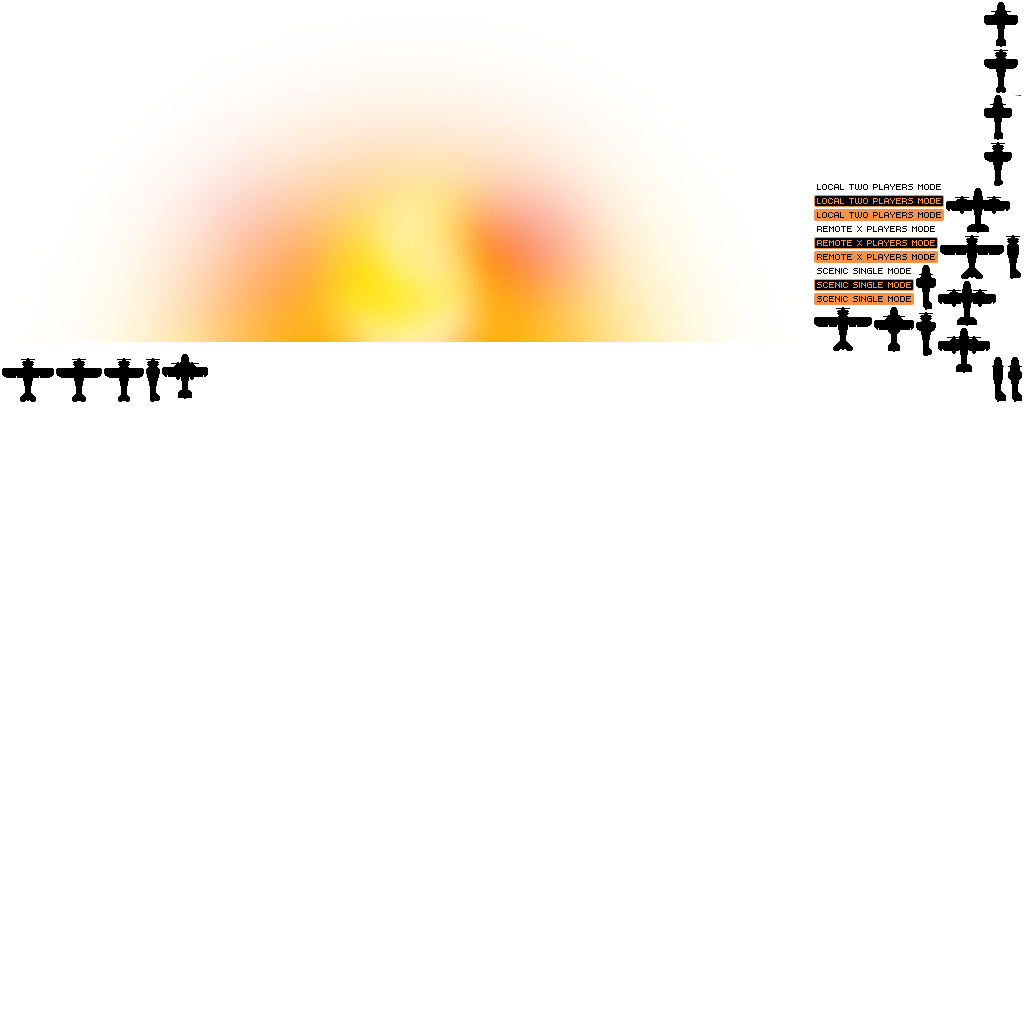
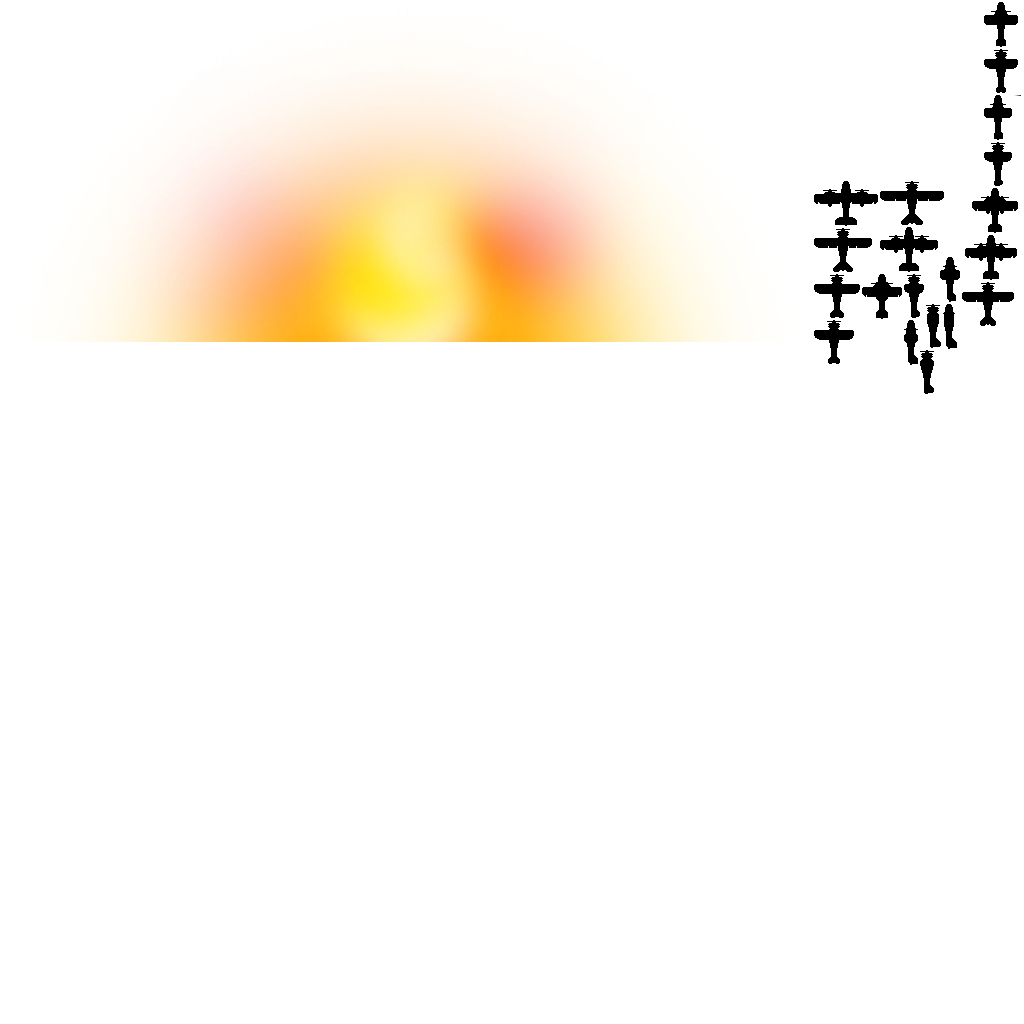
Removing obsolete GUI elements

Changed region(s): [[0.7812, 0.1562, 1.0, 0.4062], [0.0, 0.3438, 0.2188, 0.4062]]

diff --git a/src/ts/objects/GUI.class.ts b/src/ts/objects/GUI.class.ts
@@ -11,58 +11,12 @@
 class GUI extends Phaser.Group {
 
 
-    private scenicSingleModeButton: Phaser.Button;
-    private scenicSingleModeLabel: Phaser.Image;
-    private local2PlayersModeButton: Phaser.Button;
-    private local2PlayersModeLabel: Phaser.Image;
-    private remoteXPlayersModeButton: Phaser.Button;
-    private remoteXPlayersModeLabel: Phaser.Image;
     private planeOffscreenMarkerList: PlaneOffscreenMarker[] = [];
     private planeLabelList: PlaneLabel[] = [];
 
 
     constructor(game: Phaser.Game) {
         super(game, game.world, "gui");
-
-        // noinspection JSDeclarationsAtScopeStart
-        var x: number = 0;
-
-        x += this.createScenicSingleModeButton(x) + 5;
-        x += this.createLocal2PlayersModeButton(x) + 5;
-        this.createRemoteXPlayersModeButton(x);
-
-        this.refresh();
-    }
-
-
-    /**
-     * Refresh GUI.
-     */
-    public refresh() {
-        this.scenicSingleModeButton.buttonMode = true;
-        this.local2PlayersModeButton.buttonMode = true;
-        this.remoteXPlayersModeButton.buttonMode = true;
-
-        this.scenicSingleModeLabel.visible = false;
-        this.local2PlayersModeLabel.visible = false;
-        this.remoteXPlayersModeLabel.visible = false;
-
-        switch (Data.gameMode) {
-            case GameMode.ScenicSingle:
-                this.scenicSingleModeButton.inputEnabled = false;
-                this.scenicSingleModeLabel.visible = true;
-                break;
-
-            case GameMode.Local2Players:
-                this.local2PlayersModeButton.inputEnabled = false;
-                this.local2PlayersModeLabel.visible = true;
-                break;
-
-            case GameMode.RemoteXPlayers:
-                this.remoteXPlayersModeButton.inputEnabled = false;
-                this.remoteXPlayersModeLabel.visible = true;
-                break;
-        }
     }
 
 
@@ -80,99 +34,6 @@ class GUI extends Phaser.Group {
 
         this.add(marker);
         this.add(label);
-    }
-
-
-    // PRIVATE
-    // -------
-
-
-    /**
-     * Create the scenic single mode button
-     * @param x Current x position
-     * @return {number} Length
-     */
-    private createScenicSingleModeButton(x: number) {
-        this.scenicSingleModeButton = new Phaser.Button(this.game, x, this.game.world.height, "game", this.switchGameModeState, this, "gui/scenic-single-over.png", "gui/scenic-single-out.png");
-        this.scenicSingleModeButton.fixedToCamera = true;
-        this.scenicSingleModeButton.anchor.y = 1;
-
-        this.scenicSingleModeLabel = new Phaser.Image(this.game, x, this.game.world.height, "game", "gui/scenic-single-active.png");
-        this.scenicSingleModeLabel.fixedToCamera = true;
-        this.scenicSingleModeLabel.anchor.y = 1;
-        this.scenicSingleModeLabel.visible = false;
-
-        this.add(this.scenicSingleModeButton);
-        this.add(this.scenicSingleModeLabel);
-
-        return this.scenicSingleModeButton.width;
-    }
-
-
-    /**
-     * Create the local two players mode button.
-     * @param x Current x position
-     * @return {number} Length
-     */
-    private createLocal2PlayersModeButton(x: number) {
-        this.local2PlayersModeButton = new Phaser.Button(this.game, x, this.game.canvas.height, "game", this.switchGameModeState, this, "gui/local-2-players-over.png", "gui/local-2-players-out.png");
-        this.local2PlayersModeButton.fixedToCamera = true;
-        this.local2PlayersModeButton.anchor.y = 1;
-
-        this.local2PlayersModeLabel = new Phaser.Image(this.game, x, this.game.canvas.height, "game", "gui/local-2-players-active.png");
-        this.local2PlayersModeLabel.fixedToCamera = true;
-        this.local2PlayersModeLabel.anchor.y = 1;
-        this.local2PlayersModeLabel.visible = false;
-
-        this.add(this.local2PlayersModeButton);
-        this.add(this.local2PlayersModeLabel);
-
-        return this.local2PlayersModeButton.width;
-    }
-
-
-    /**
-     * Create the remote x players mode button.
-     * @param x Current x position
-     * @return {number} Length
-     */
-    private createRemoteXPlayersModeButton(x: number) {
-        this.remoteXPlayersModeButton = new Phaser.Button(this.game, x, this.game.canvas.height, "game", this.switchGameModeState, this, "gui/remote-x-players-over.png", "gui/remote-x-players-out.png");
-        this.remoteXPlayersModeButton.fixedToCamera = true;
-        this.remoteXPlayersModeButton.anchor.y = 1;
-
-        this.remoteXPlayersModeLabel = new Phaser.Image(this.game, x, this.game.canvas.height, "game", "gui/remote-x-players-active.png");
-        this.remoteXPlayersModeLabel.fixedToCamera = true;
-        this.remoteXPlayersModeLabel.anchor.y = 1;
-        this.remoteXPlayersModeLabel.visible = false;
-
-        this.add(this.remoteXPlayersModeButton);
-        this.add(this.remoteXPlayersModeLabel);
-
-        return this.remoteXPlayersModeButton.width;
-    }
-
-
-    /**
-     * Switch game mode state.
-     * @param e Button origin
-     */
-    private switchGameModeState(e: Phaser.Button) {
-        switch (e) {
-            case this.scenicSingleModeButton:
-                Signals.onSwitchGameModeState.dispatch(GameMode.ScenicSingle);
-                break;
-
-            case this.local2PlayersModeButton:
-                Signals.onSwitchGameModeState.dispatch(GameMode.Local2Players);
-                break;
-
-            case this.remoteXPlayersModeButton:
-                Signals.onSwitchGameModeState.dispatch(GameMode.RemoteXPlayers);
-                break;
-        }
-
-        this.refresh();
     }
 
 

diff --git a/src/ts/state/GameState.class.ts b/src/ts/state/GameState.class.ts
@@ -279,7 +279,6 @@ class GameState extends Phaser.State {
      */
     private createSignals() {
         Signals.onCrashBottom.add(this.onPlaneCrashed, this);
-        Signals.onSwitchGameModeState.add(this.onGameModeStateSwitched, this);
     }
 
 
@@ -434,16 +433,6 @@ class GameState extends Phaser.State {
      */
     private onPlaneCrashed(e: Plane) {
         this.addPlaneExplosion(e.body.x);
-    }
-
-
-    /**
-     * Game mode state switched from GUI.
-     * @param {GameMode} e New game mode state
-     * @see GameMode
-     */
-    private onGameModeStateSwitched(e: GameMode) {
-        // FIXME: Game mode switch
     }
 
 

diff --git a/src/ts/data/Signals.class.ts b/src/ts/data/Signals.class.ts
@@ -5,7 +5,6 @@ class Signals {
 
 
     static onCrashBottom: Phaser.Signal = new Phaser.Signal();
-    static onSwitchGameModeState: Phaser.Signal = new Phaser.Signal();
 
 
 }
